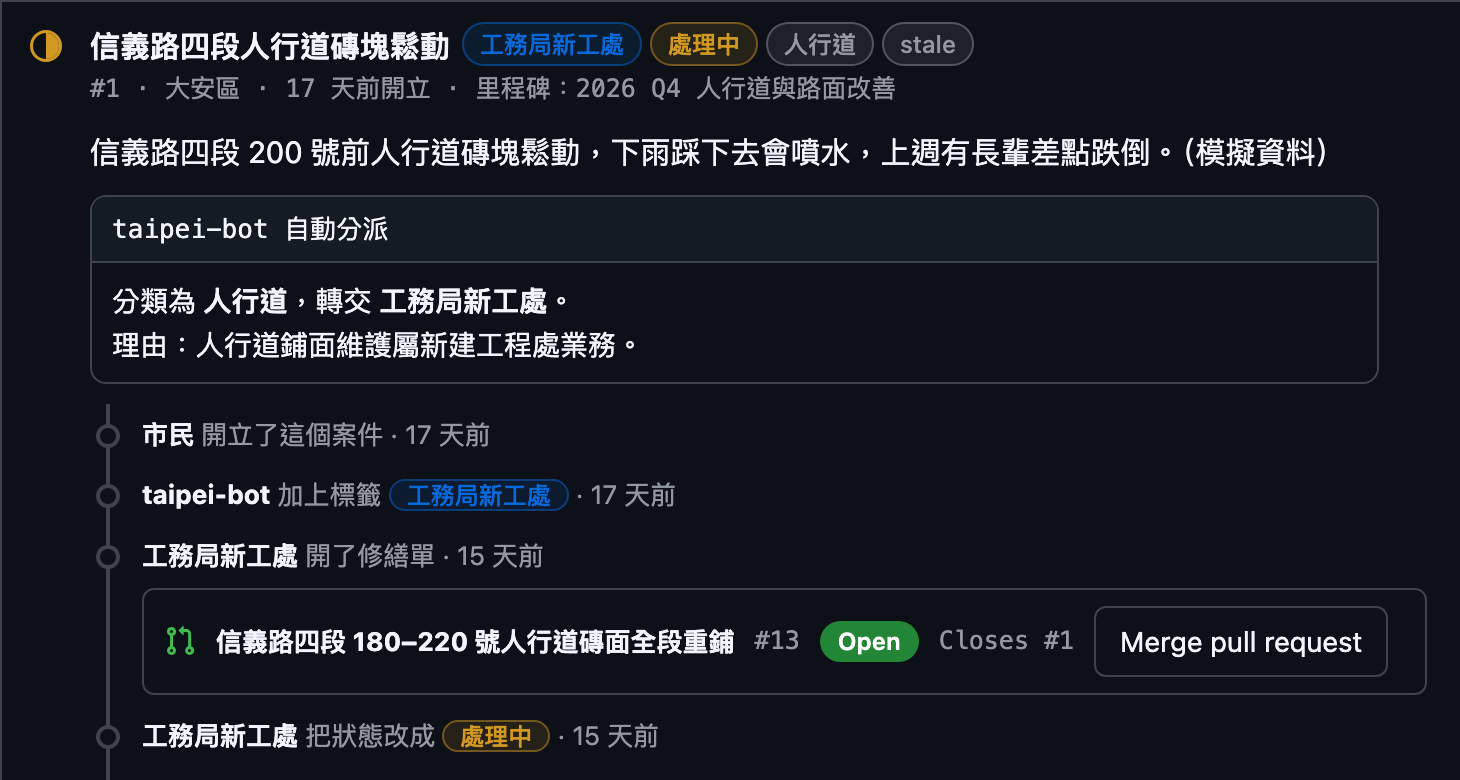
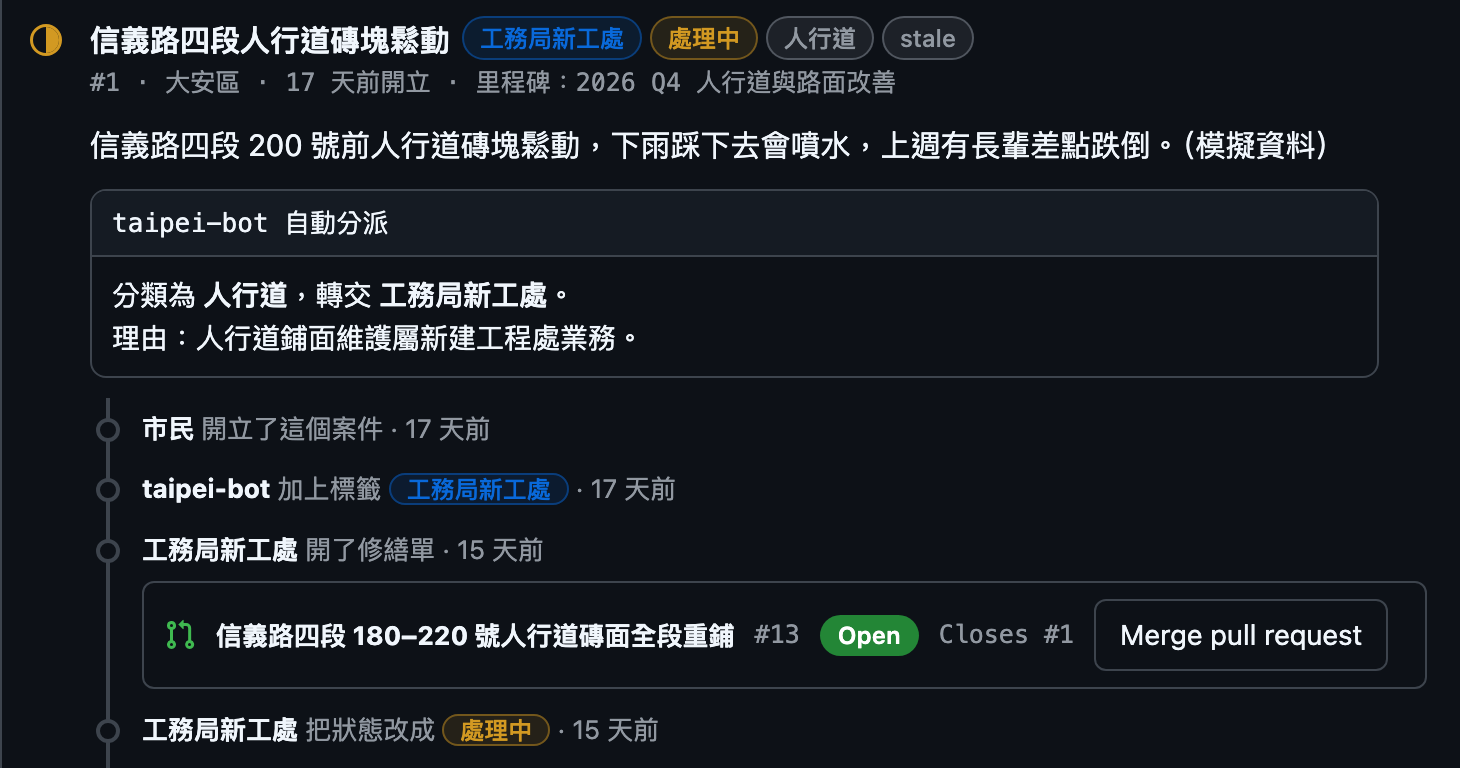
docs(deck): reshoot product screenshots with expanded demo data

diff --git a/deck/project/slides/screen-flow.html b/deck/project/slides/screen-flow.html
@@ -3,12 +3,12 @@
 <div style="display:grid;grid-template-columns:700px 1fr;gap:48px">
 <div style="display:flex;flex-direction:column;gap:24px">
 <h3 style="font-size:44px;font-weight:700;color:#e6edf3">修繕單就是 PR</h3>
-<img src="/_blob/406e8a9730aabfc5daa359bf737a45f0" alt="案件 #1：taipei-bot 分派理由與修繕單 #13（Closes #1）" style="width:700px;height:402px;object-fit:contain;background:#161b22;border:2px solid #30363d;border-radius:16px">
+<img src="/_blob/29a241fb4ac07628dd2355b4154d8d89" alt="案件 #1：taipei-bot 分派理由與修繕單 #13（Closes #1）" style="width:700px;height:402px;object-fit:contain;background:#161b22;border:2px solid #30363d;border-radius:16px">
 <p style="font-size:28px;line-height:1.5;color:#8b949e">taipei-bot 寫下分派理由；局處開修繕單 #13，上面寫 Closes #1，merge 就結案。</p>
 </div>
 <div style="display:flex;flex-direction:column;gap:24px">
 <h3 style="font-size:44px;font-weight:700;color:#e6edf3">處理速度是 CI 徽章</h3>
-<img src="/_blob/939ab48a8b7f3b7b6de220c33c12d8a6" alt="Insights：各局處平均修復天數與 SLA passing／failing 徽章" style="width:916px;height:402px;object-fit:contain;background:#161b22;border:2px solid #30363d;border-radius:16px">
+<img src="/_blob/6e8f893ea8734f98bed34a5646d1211e" alt="Insights：各局處平均修復天數與 SLA passing／failing 徽章" style="width:916px;height:402px;object-fit:contain;background:#161b22;border:2px solid #30363d;border-radius:16px">
 <p style="font-size:28px;line-height:1.5;color:#8b949e">平均 7 天內修好是 passing，超過就是 failing。</p>
 </div>
 </div>

diff --git a/deck/project/slides/screen-list.html b/deck/project/slides/screen-list.html
@@ -1,7 +1,7 @@
 <section id="screen-list" data-transition="fade" style="background:#0d1117;color:#e6edf3;font-family:'Noto Sans TC', Arial, sans-serif;padding:128px 128px 160px;display:flex;flex-direction:column;gap:48px">
 <h2 style="font-size:72px;font-weight:700;line-height:1.15;color:#e6edf3">實際畫面：陳情就是 issue</h2>
 <div style="display:flex;flex-direction:row;gap:56px;align-items:flex-start">
-<img src="/_blob/c9598f035f51a845b54f7da98ec76921" alt="Issues 分頁：依 +1 排序的陳情列表與局處標籤" style="width:1080px;height:559px;object-fit:contain;background:#161b22;border:2px solid #30363d;border-radius:16px">
+<img src="/_blob/f52cdaaae20a7de3053e997eebfe9061" alt="Issues 分頁：依 +1 排序的陳情列表與局處標籤" style="width:1080px;height:559px;object-fit:contain;background:#161b22;border:2px solid #30363d;border-radius:16px">
 <div style="flex:1;display:flex;flex-direction:column;gap:40px">
 <div style="display:flex;flex-direction:column;gap:12px">
 <h3 style="font-size:44px;font-weight:700;color:#e6edf3">+1 決定順序</h3>
